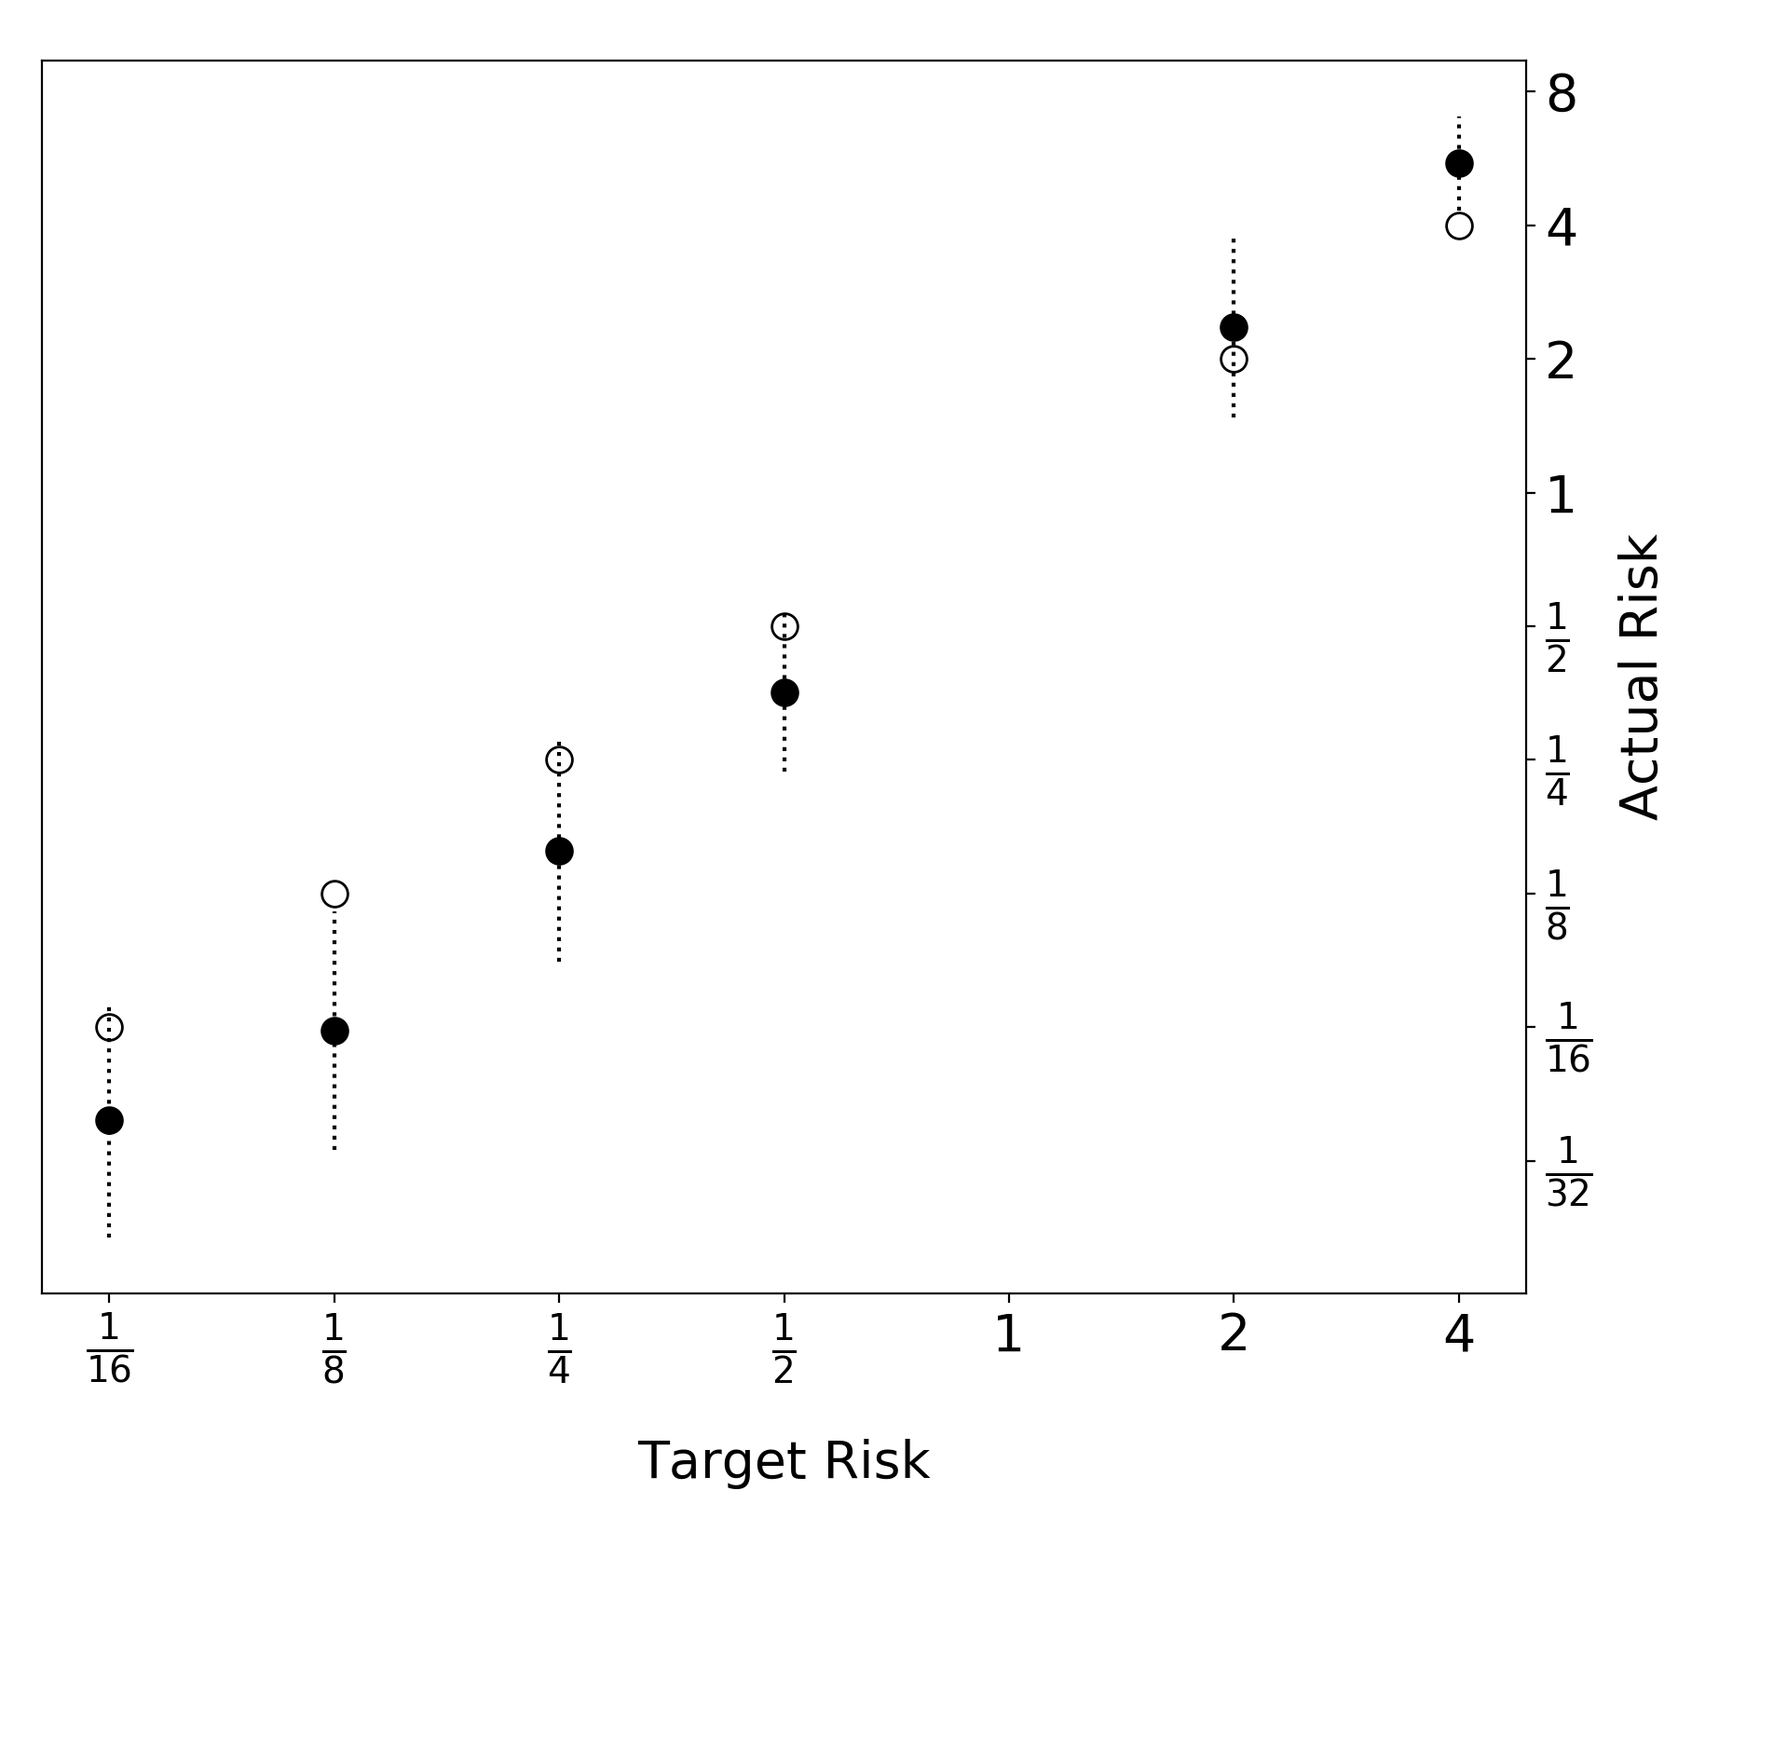
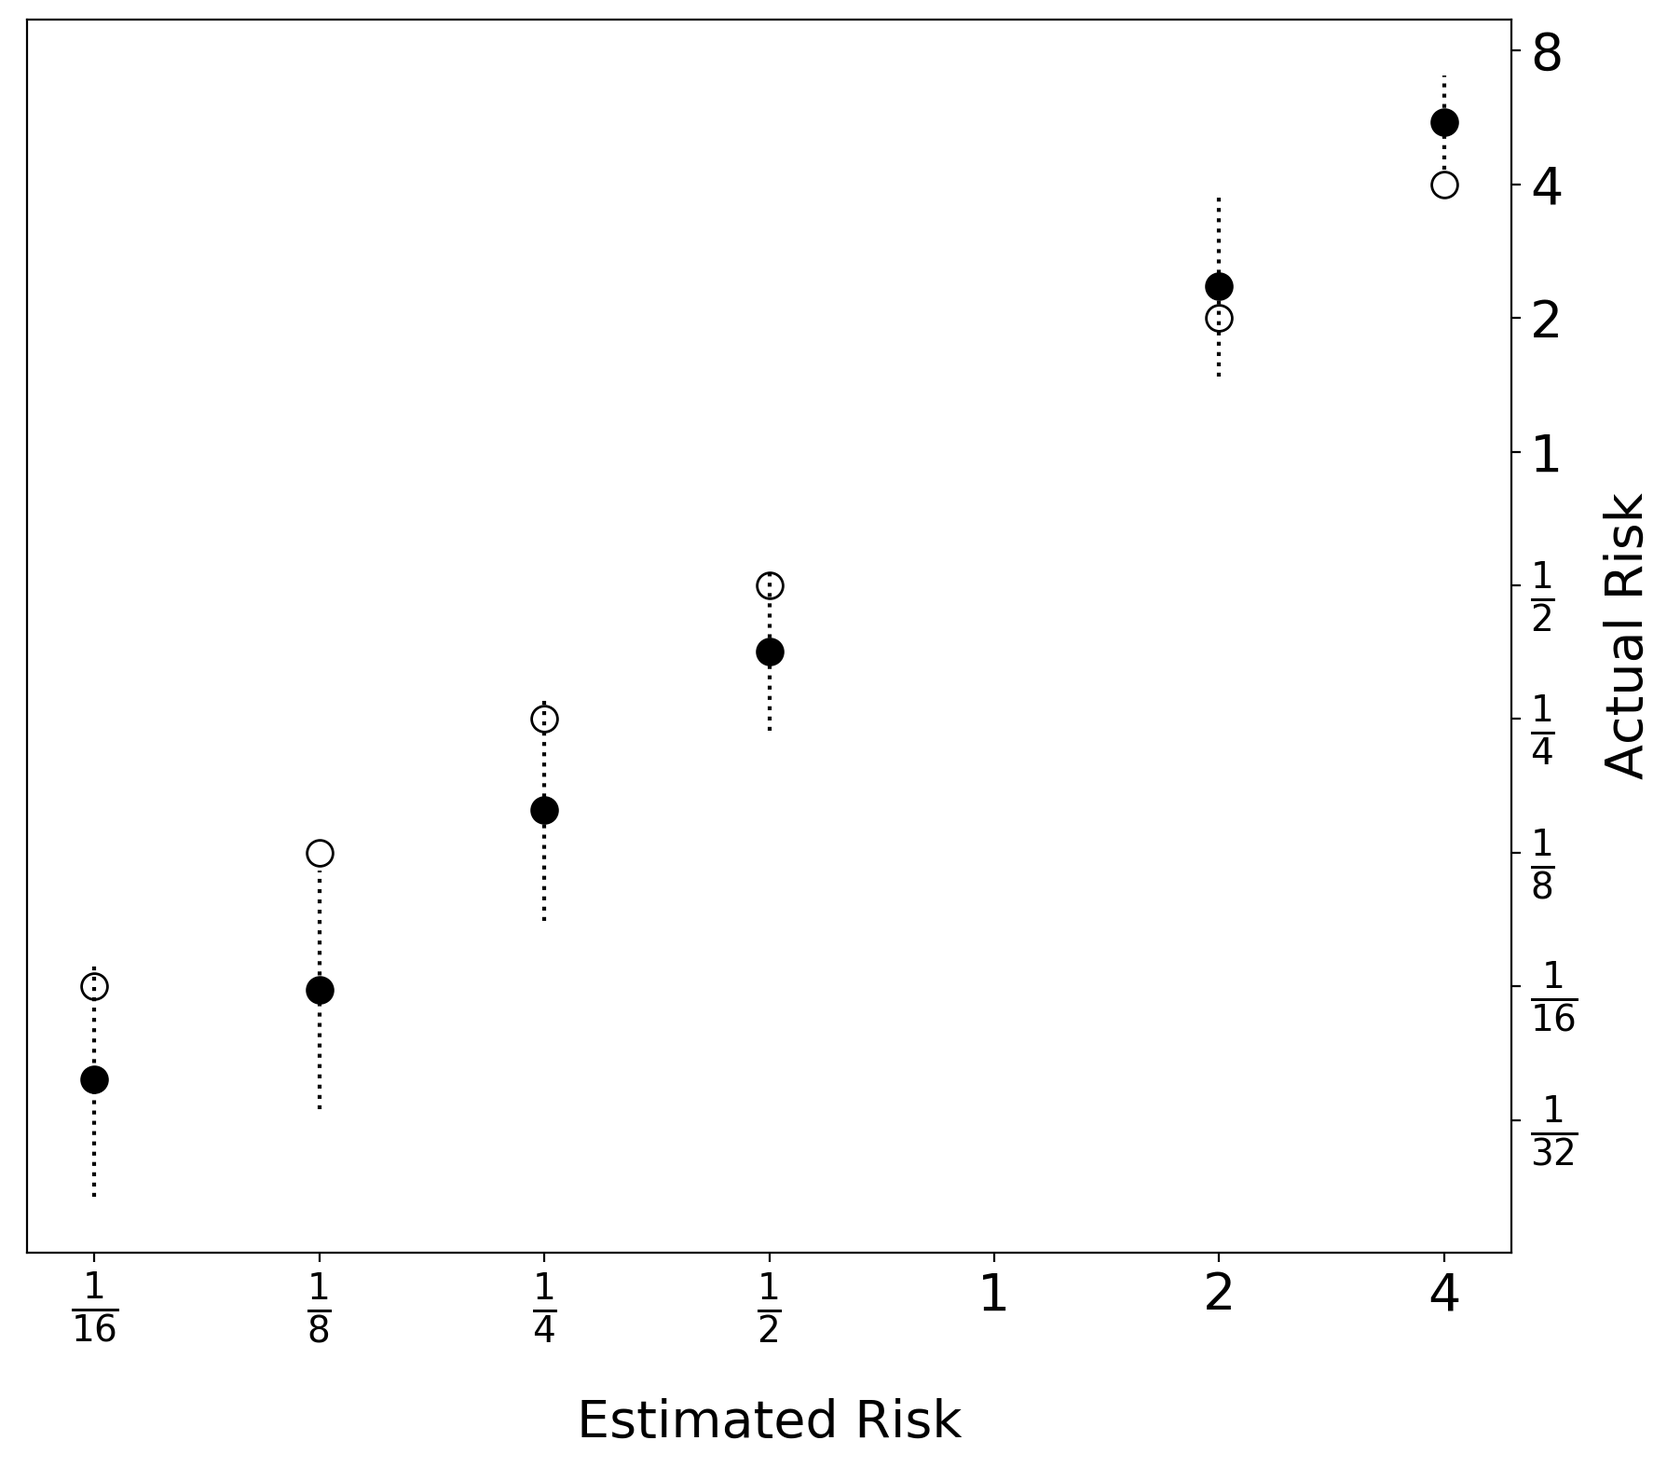
figure captions

diff --git a/critical_care.tex b/critical_care.tex
@@ -1,10 +1,18 @@
 \chapter{Critical Care}
 
 \begin{figure}
-\includegraphics[width=\textwidth]{icu_example_waveforms}
-\caption{Example waveforms}
+\includegraphics[width=0.8\textwidth]{icu_icd_mi}
+\caption{ICD Codes}
 \vspace{12px}
-Insert caption here
+The International Classification of Diseases (ICD) is a taxonomy of all medical conditions maintained by the World Health Organization.  "Acute myocardial infarction", for example, is a descendant of "Acute ischemic heart diseases", which itself is a descendant of "Ischemic heart diseases", which itself is a descendant of "Diseases of the circulatory system".  "Acute myocardial infarction" is then further subdivided if more granularity is required.
+\label{fig:icu_icd_mi}
+\end{figure}
+
+\begin{figure}
+\includegraphics[width=\textwidth]{icu_example_inputs}
+\caption{Example inputs}
+\vspace{12px}
+Waveforms are sampled at 125Hz with 8 bit resolution.  An example contains 2048 samples, or about 16 seconds.  Waveform types include 3 ECG leads (II, V, AVR) shown in blue, respiration shown in in green, and photoplethysmogram and arterial blood pressure, both shown in red.  An example is labeled with a set of ICD codes.  For simplicity, examples here are shown that were correctly detected as having a given condition.  In the upper left we see an example that was correctly flagged for cardiogenic shock.  The the upper right we have an example of a detected cerebral aneurysm.  In the lower left and right we have examples of myocardial infarction and liver cirrhosis.
 \label{fig:icu_example_waveforms}
 \end{figure}
 
@@ -12,7 +20,7 @@ Insert caption here
 \includegraphics[width=\textwidth]{icu_model_arch}
 \caption{Model architecture}
 \vspace{12px}
-Insert caption here
+A 32 layer 1D ConvNet with residual layers was trained on inputs of $k$ by 2048.  During training time, $k = 15$, and during inference time $k = 6$.  The discrepancy in $k$ is due to the fact that not all waveforms are present for every patient.  The patients in the validation and test sets are restricted to those who have all 6 of the required waveforms measured.  During training, missing waveforms are input as 0 vectors.  The net outputs 90 probabilities, 1 for each of the 90 ICD codes trained on.  Each example can have multiple diagnoses associated with it.  The loss is the mean of all 90 binary cross entropies.
 \label{fig:icu_model_arch}
 \end{figure}
 
@@ -20,7 +28,7 @@ Insert caption here
 \includegraphics[width=\textwidth]{icu_cardio_prob}
 \caption{Cardiogenic Shock Separation}
 \vspace{12px}
-Insert caption here
+Conditional distributions of network output given the diagnosis is positive or negative for cardiogenic shock.
 \label{fig:icu_cardio_prob}
 \end{figure}
 
@@ -28,7 +36,7 @@ Insert caption here
 \includegraphics[width=\textwidth]{icu_cardio_sens}
 \caption{Cardiogenic Shock Effective Sensitivity}
 \vspace{12px}
-Insert caption here
+Effective sensitivity of the network for detecting a cardiogenic shock.  As an example, assume only 20\% of the patients can be tested with an expensive but perfect test. Using the net to flag the 20 percentile patients at highest risk for further testing would detect 66\% of the cases.
 \label{fig:icu_cardio_sens}
 \end{figure}
 
@@ -36,7 +44,7 @@ Insert caption here
 \includegraphics[width=\textwidth]{icu_systolic_prob}
 \caption{Systolic Heart Failure Separation}
 \vspace{12px}
-Insert caption here
+Conditional distributions of network output given the diagnosis is positive or negative for systolic heart failure.
 \label{fig:icu_systolic_prob}
 \end{figure}
 
@@ -44,7 +52,7 @@ Insert caption here
 \includegraphics[width=\textwidth]{icu_systolic_sens}
 \caption{Systolic Heart Failure Effective Sensitivity}
 \vspace{12px}
-Insert caption here
+Effective sensitivity of the network for detecting systolic heart failure.  As an example, assume only 20\% of the patients can be tested with an expensive but perfect test. Using the net to flag the 20 percentile patients at highest risk for further testing would detect 56\% of the cases.
 \label{fig:icu_systolic_sens}
 \end{figure}
 
@@ -52,7 +60,7 @@ Insert caption here
 \includegraphics[width=\textwidth]{icu_cerebral_prob}
 \caption{Cerebral Aneurysm Separation}
 \vspace{12px}
-Insert caption here
+Conditional distributions of network output given the diagnosis is positive or negative for cerebral aneurysm.
 \label{fig:icu_cerebral_prob}
 \end{figure}
 
@@ -60,7 +68,7 @@ Insert caption here
 \includegraphics[width=\textwidth]{icu_cerebral_sens}
 \caption{Cerebral Aneurysm Effective Sensitivity}
 \vspace{12px}
-Insert caption here
+Effective sensitivity of the network for detecting a cerebral aneurysm.  As an example, assume only 20\% of the patients can be tested with an expensive but perfect test. Using the net to flag the 20 percentile patients at highest risk for further testing would detect 63\% of the cases.
 \label{fig:icu_cerebral_sens}
 \end{figure}
 
@@ -68,7 +76,7 @@ Insert caption here
 \includegraphics[width=\textwidth]{icu_myocard_prob}
 \caption{Myocardial Infarction Separation}
 \vspace{12px}
-Insert caption here
+Conditional distributions of network output given the diagnosis is positive or negative for myocardial infarction.
 \label{fig:icu_myocard_prob}
 \end{figure}
 
@@ -76,7 +84,7 @@ Insert caption here
 \includegraphics[width=\textwidth]{icu_myocard_sens}
 \caption{Myocardial Infarction Effective Sensitivity}
 \vspace{12px}
-Insert caption here
+Effective sensitivity of the network for detecting a myocardial infarction.  As an example, assume only 20\% of the patients can be tested with an expensive but perfect test. Using the net to flag the 20 percentile patients at highest risk for further testing would detect 57\% of the cases.
 \label{fig:icu_myocard_sens}
 \end{figure}
 
@@ -84,7 +92,7 @@ Insert caption here
 \includegraphics[width=\textwidth]{icu_relative_risk}
 \caption{Relative risk}
 \vspace{12px}
-Insert caption here
+Patients are placed into estimated risk categories of powers of 2.  For example, a patient in the 1/4 risk category of systolic heart failure is estimated to be between 1/4 and 1/8 as likely to be diagnosed with systolic heart failure.  For cardiogenic shock, about half of the patients can be placed into a low risk category.
 \label{fig:icu_relative_risk}
 \end{figure}
 
@@ -92,31 +100,31 @@ Insert caption here
 \includegraphics[width=\textwidth]{icu_actual_risk}
 \caption{Actual risk}
 \vspace{12px}
-Insert caption here
+Risk categories are valid.  For each risk category an actual risk can be computed with error bars.  The error bars represent the fact that there are 90 conditions being predicted.  Ideally the low risk categories should have an actual risk lower than the estimated risk and the high risk categories should have a risk higher than the estimated risk.  This is due to the fact that risk categories represent an estimated risk $r$ in the range $2^n < r < 2^{n+1}$ for $n > 0$ (high risk) and $2^n > r > 2^{n+1}$ for $n < 0$ (low risk).  This indeed occurs as shown.
 \label{fig:icu_actual_risk}
 \end{figure}
 
 \begin{figure}
-\includegraphics[width=\textwidth]{icu_sem_inf}
-\caption{Semantic Inference}
+\includegraphics[width=\textwidth]{icu_embedding_method}
+\caption{ICD Embedding Method}
 \vspace{12px}
-Insert caption here
-\label{fig:icu_sem_inf}
+To compute an embedding of ICD codes from what the net has learned, 43,557 examples are forward passed through the net producing a 43,557 by 90 matrix.  The 90 rows of this matrix represent 43,557 dimensional embeddings of the ICD codes.
+\label{fig:icu_embedding_method}
 \end{figure}
 
 \begin{figure}
-\includegraphics[width=\textwidth]{icu_map}
-\caption{Semantic Inference Embedding}
+\includegraphics[width=\textwidth]{icu_icd_map}
+\caption{2D Projection of ICD Embedding}
 \vspace{12px}
-Insert caption here
-\label{fig:icu_map}
+TSNE was applied to high dimensional ICD code embeddings to produce a 2D visualization of the ICD code space learned by the net.  Conditions affecting various organs are close together in this space.  Red circles are conditions that affect the heart.  These conditions include cardiogenic shock, coronary atherosclerosis, atrial flutter, systolic heart failure, and myocardial infarction.  Green circles are conditions that affect the brain.  These conditions include cerebral edema, brain cancer, cerebral aneurysm, intracerebral hemorrhage.  It is interesting that skull fracture found its way into this region.  Yellow circles are conditions that affect the liver.  These conditions include cirrhosis, hepatitis, and liver cancer.  It is interesting that alcohol abuse and alcohol dependence syndrome found their way into this region, and are also close to the brain conditions.  Blue circles are conditions that affect the lungs.  These conditions include pulmonary collapse, pneumonia, and acute respiratory failure.  This embedding also puts similar ICD codes together that may be far apart in the ICD taxonomy.  For example consider ICD code 785.52: Septic Shock, ICD code 995.92: Severe Sepsis, and ICD code 038: Septicemia.  The nearest common ancestor of these ICD codes in the taxonomy is the root of the entire taxonomy of all medical conditions that exist.  But the net learned that they were similar semantically based on the waveforms it was trained with.
+\label{fig:icu_icd_map}
 \end{figure}
 
 \begin{figure}
 \includegraphics[width=\textwidth]{icu_map_mi}
 \caption{Semantic Inference Myocardial Infarction}
 \vspace{12px}
-Insert caption here
+This patient was admitted for "ST Elevated Myocardial Infarction".  The neural net correctly predicted that they had low risk of kidney conditions, death, and many heart conditions (colored green).  It predicted high risk of liver conditions and various heart conditions including myocardial infarction and coronary atherosclerosis (colored red).  The patients was eventually in fact diagnosed with myocardial infarction and coronary atherosclerosis among other things (circled in black).
 \label{fig:icu_map_mi}
 \end{figure}
 
@@ -124,7 +132,7 @@ Insert caption here
 \includegraphics[width=\textwidth]{icu_map_chf}
 \caption{Semantic Inference Congestive Heart Failure}
 \vspace{12px}
-Insert caption here
+This patient was admitted for "Congestive Heart Failure".  The neural net predicted that they had low risk of liver and brain conditions (colored green).  It predicted high risk of heart conditions (colored red).  The patients was eventually diagnosed of conditions affecting the heart, and died (circled in black).
 \label{fig:icu_map_chf}
 \end{figure}
 
@@ -132,7 +140,7 @@ Insert caption here
 \includegraphics[width=\textwidth]{icu_map_cardarr}
 \caption{Semantic Inference Cardiac Arrest}
 \vspace{12px}
-Insert caption here
+This patient was admitted for "Cardiac Arrest".  The neural net predicted that they had low risk of liver and brain conditions (colored green).  It predicted high risk of heart conditions (colored red).  The patients was eventually diagnosed of conditions affecting the heart among other things (circled in black).
 \label{fig:icu_map_cardarr}
 \end{figure}
 
@@ -140,7 +148,7 @@ Insert caption here
 \includegraphics[width=\textwidth]{icu_map_pacer}
 \caption{Semantic Inference Pacer Erosion}
 \vspace{12px}
-Insert caption here
+This patient was admitted for "Pacer Erosion".  The neural net predicted that they had low risk of liver and brain conditions (colored green).  It predicted high risk of heart conditions (colored red).  The patients was eventually diagnosed of conditions affecting the heart (circled in black).
 \label{fig:icu_map_pacer}
 \end{figure}
 
@@ -148,7 +156,7 @@ Insert caption here
 \includegraphics[width=\textwidth]{icu_map_stseg}
 \caption{Semantic Inference ST Elevation}
 \vspace{12px}
-Insert caption here
+This patient was admitted for "St-Segment Elevation Myocardial Infarction/Cardiac Cath".  The neural net predicted that they had low risk of liver and brain conditions (colored green).  It predicted high risk of heart conditions (colored red).  The patients was eventually diagnosed of conditions affecting the heart (circled in black).
 \label{fig:icu_map_stseg}
 \end{figure}
 
@@ -156,7 +164,7 @@ Insert caption here
 \includegraphics[width=\textwidth]{icu_map_ventach}
 \caption{Semantic Inference Ventricular Tachycardia}
 \vspace{12px}
-Insert caption here
+This patient was admitted for ventricular tachycardia.  The neural net predicted that they had low risk of liver and brain conditions (colored green).  It predicted high risk of heart conditions (colored red).  The patients was eventually diagnosed of conditions affecting the heart (circled in black).
 \label{fig:icu_map_ventach}
 \end{figure}
 
@@ -164,7 +172,7 @@ Insert caption here
 \includegraphics[width=\textwidth]{icu_map_brain}
 \caption{Semantic Inference Intracranial Hemorrhage}
 \vspace{12px}
-Insert caption here
+This patient was admitted for "Intracranial Hemorrhage".  The neural net predicted that they had low risk of heart conditions and septic conditions (colored green).  It predicted high risk of brain conditions (colored red).  The patients was eventually diagnosed with cerebral edema and intracerebral hemorrhage (circled in black).
 \label{fig:icu_map_brain}
 \end{figure}
 
@@ -172,20 +180,20 @@ Insert caption here
 \includegraphics[width=\textwidth]{icu_map_liver}
 \caption{Semantic Inference Abdominal Pain}
 \vspace{12px}
-Insert caption here
+This patient was admitted for "Abdominal Pain".  The neural net predicted that they had low risk of brain and heart conditions (colored green).  It predicted high risk of liver conditions (colored red).  The patients was eventually diagnosed with chronic liver cirrhosis and a liver abscess among other things (circled in black).
 \label{fig:icu_map_liver}
 \end{figure}
 
 \section{Introduction}
 Admission to the intensive care unit (ICU) in hospitals is associated with risk of acute mortality given critical illness for those patients, which can include shock and end organ damage. During this period, patients are closely monitored in the intensive care setting with both invasive and noninvasive sensor data and frequent lab monitoring in order to effectively determine and prevent complications of critical illness.  Physicians often use risk scores designed to identify and predict patients’ risk of conditions such as shock: general physiologic scoring like shock index, or more specifically septic shock (qSOFA score) or cardiogenic shock (completing Fick’s formula for cardiac index, cardiac output, and stroke volume).
 
-Wearable devices are becoming more and more common.  Over 100 million people wear an Apple Watch.  This device is capable of measuring both a photoplethysmogram (PPG) and an electrocardiogram (ECG).  While data for this device is not yet openly available in large quantities, there are large amounts of data available for patients in critical care.  These datasets include waveforms measured in the ICU, which include the waveforms measured by an Apple Watch.  This distribution of patients in an ICU vs the average Apple Watch user are admittedly different.  As demonstrated in chapter 1 though, a lot can be gained from first training on a large related dataset (e.g. cats and dogs) and then fine-tuning on the dataset of interest (e.g. skin lesions).  For this situation, we use the MIMIC ICU dataset in a similar manner as ImageNet.  A further study could fine-tune this model on data collected from Apple Watch users.
+Wearable devices are becoming more common.  Over 100 million people wear an Apple Watch.  This device is capable of measuring both a photoplethysmogram (PPG) and an electrocardiogram (ECG).  While data for this device is not yet openly available in large quantities, there are large amounts of data available for patients in critical care.  These datasets include waveforms measured in the ICU, which include the waveforms measured by an Apple Watch.  This distribution of patients in an ICU vs the average Apple Watch user are admittedly different.  As demonstrated in chapter 1 though, a lot can be gained from first training on a large related dataset (e.g. cats and dogs) and then fine-tuning on the dataset of interest (e.g. skin lesions).  For this situation, we use the MIMIC ICU dataset in a similar manner as ImageNet.  A further study could fine-tune this model on data collected from Apple Watch users.
 
 \section{Dataset}
-The dataset used was collected by MIT.  It is essentially a data dump of data collected from the hospital, far from the pristine labeled ImageNet dataset.  Much care was needed to transform it into a form that a neural net could be trained with.  The dataset includes over 60 thousand ICU patients.  For each hospital admission a variable number of waveforms are recorded.  Additionally each patient was diagnosed with a variable number of conditions as evidenced by the ICD codes on their chart.
+The dataset used was collected by MIT.  It represents a data dump of data collected from the hospital over a time period of 10 years, far from the pristine labeled ImageNet dataset.  Much care was needed to transform it into a form that a neural net could be trained with.  The dataset includes over 60 thousand ICU patients.  For each hospital admission a variable number of waveforms are recorded.  Additionally each patient was diagnosed with a variable number of conditions as evidenced by the ICD codes on their chart.
 
 \subsection{ICD Codes}
-TODO
+The International Classification of Diseases (ICD) is a taxonomy of all medical conditions.  These conditions include diseases such as brain cancer
 
 \subsection{Inputs}
 TODO
